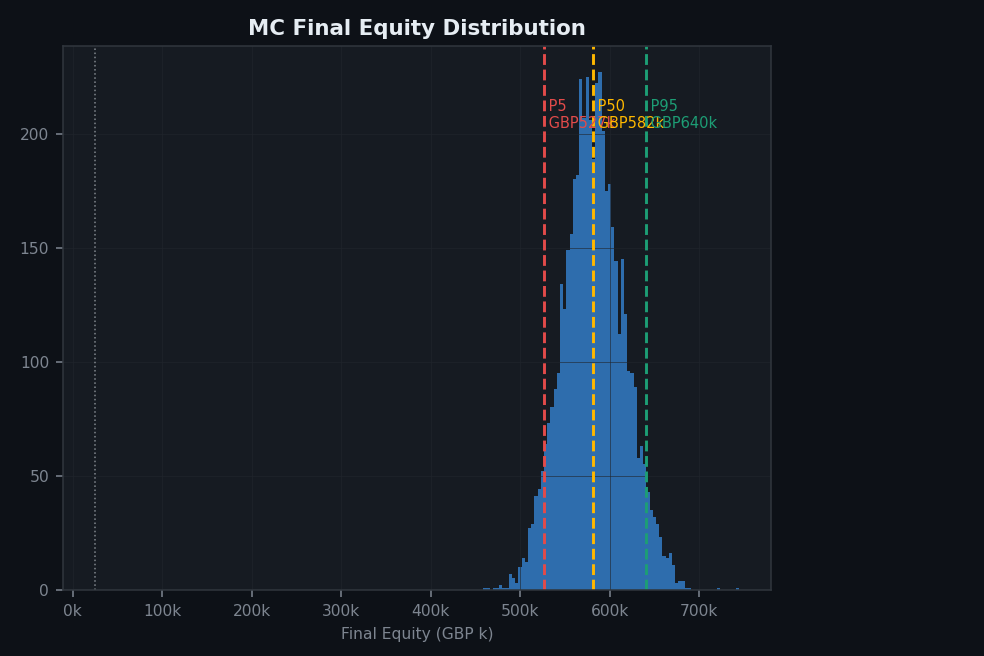
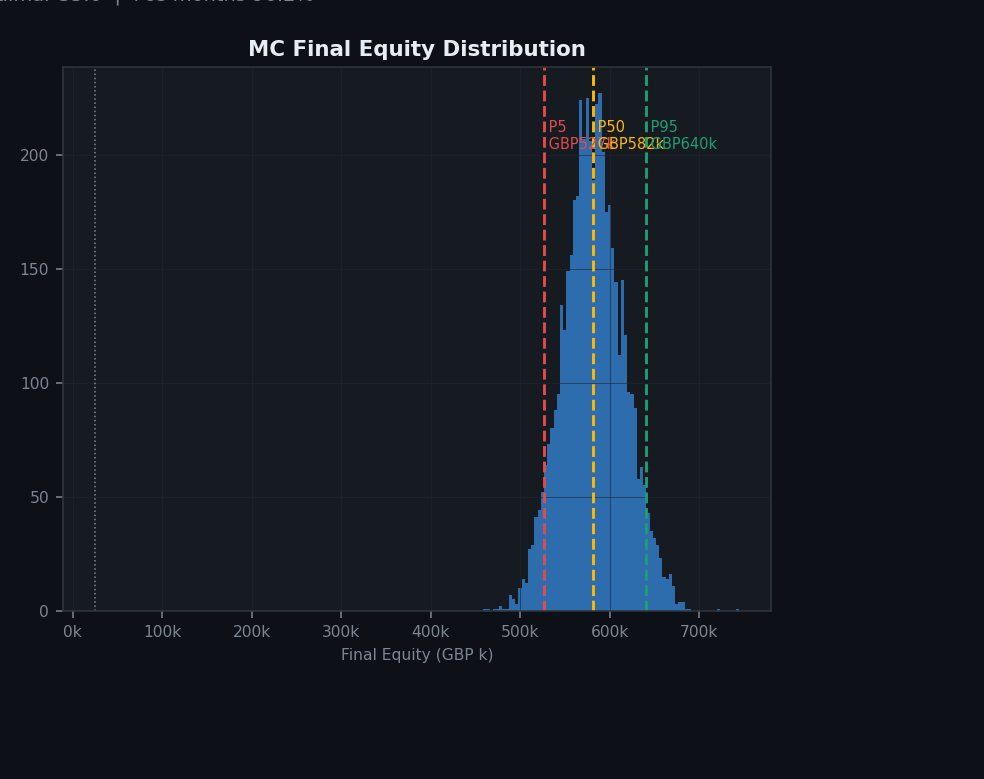
Add files via upload

diff --git a/index.html b/index.html
@@ -157,13 +157,14 @@ h3{font-size:1.2rem;letter-spacing:-.02em}
 .feature .fhead h3{font-size:clamp(1.2rem,1.05rem+.6vw,1.55rem);margin-bottom:.55rem}
 .feature .fhead p{color:#BDCCDE;margin:0;max-width:66ch;font-size:.95rem}
 .feature .fbody{padding:clamp(1.35rem,3vw,2.25rem)}
-.shot{display:block;border:1px solid var(--line);border-radius:10px;overflow:hidden;background:#12161C;margin-bottom:1.75rem}
+.shot{display:block;border:1px solid var(--line);border-radius:10px;overflow:hidden;background:#12161C;margin-bottom:1.75rem;text-decoration:none;color:inherit;transition:border-color .16s}
+.shot:hover{border-color:var(--blue-d)}
 .shot img{width:100%;height:auto}
-.figpair{display:grid;gap:1.25rem;margin-bottom:1.75rem}
+.figpair{display:grid;gap:1.25rem;margin-bottom:1.75rem;align-items:start}
 @media(min-width:720px){.figpair{grid-template-columns:1fr 1fr}}
 .figpair .shot{margin-bottom:0}
-.figpair .shot img{width:100%;height:auto}
-.shot figcaption{font-size:.8rem;color:var(--ink-3);background:var(--soft);padding:.6rem .85rem;border-top:1px solid var(--line)}
+.figpair .shot img{width:100%;height:auto;display:block}
+.shot figcaption{font-size:.8rem;color:var(--ink-3);background:var(--soft);padding:.6rem .85rem;border-top:1px solid var(--line);text-decoration:none}
 .split{display:grid;gap:1.75rem}
 @media(min-width:780px){.split{grid-template-columns:1fr 1fr;column-gap:2.75rem}}
 .split h4{font-size:.76rem;font-weight:700;letter-spacing:.09em;text-transform:uppercase;color:var(--ink-3);margin-bottom:.9rem;padding-bottom:.5rem;border-bottom:2px solid var(--blue)}
